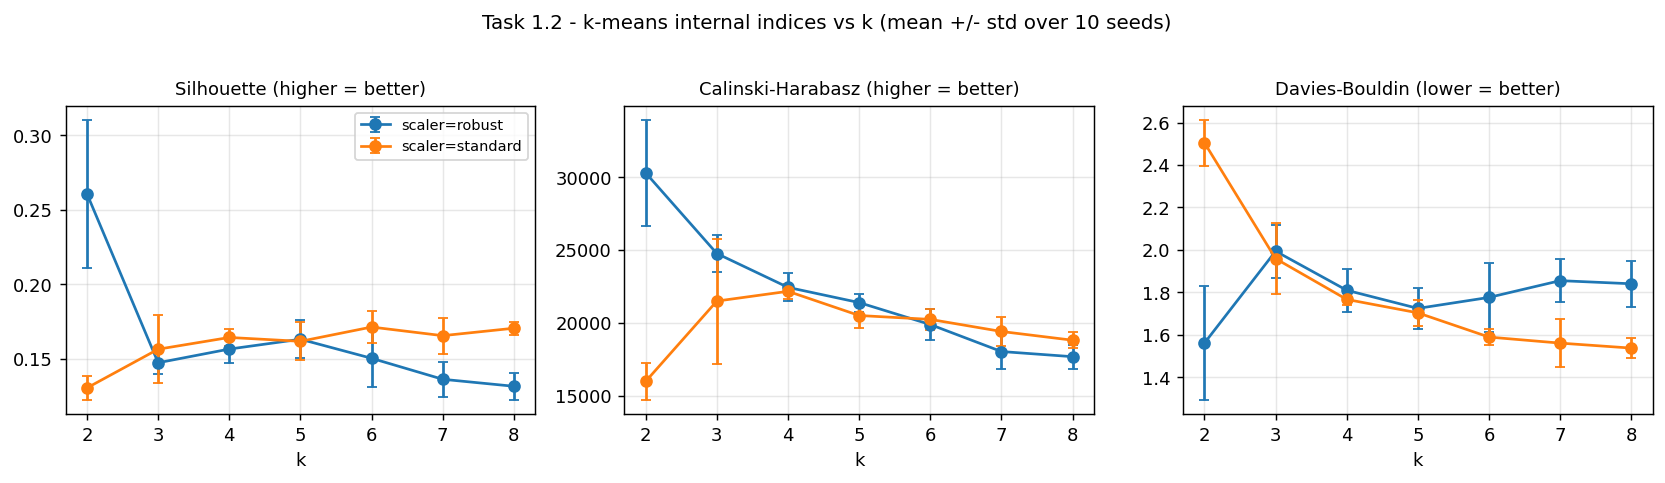
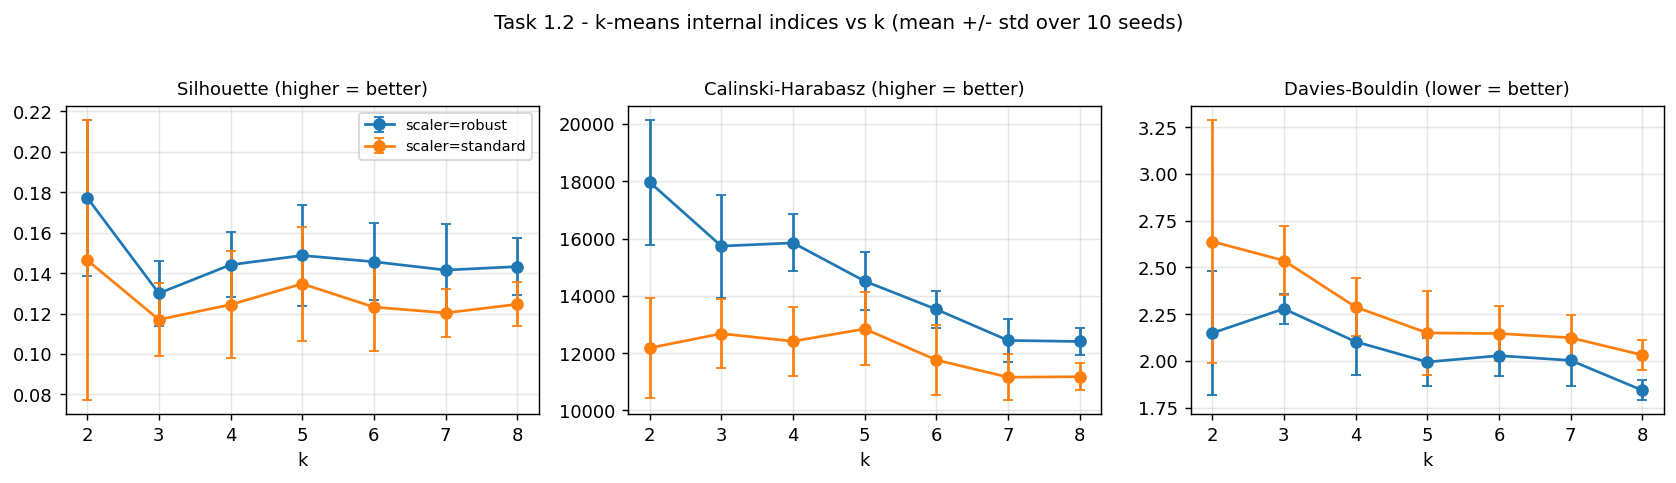
Add PCA(3) static and interactive visualiser to run_all pipeline

diff --git a/src/evaluation/visualize_components_3d.py b/src/evaluation/visualize_components_3d.py
@@ -820,6 +820,146 @@ def _html_document(
     )
 
 
+def _write_static_figure(
+    *,
+    coords: np.ndarray,
+    labels_sample: np.ndarray,
+    clusters: list[dict],
+    variance: list[float],
+    method_name: str,
+    scaler: str,
+    n_rows: int,
+    n_sample: int,
+    png_path: Path,
+) -> None:
+    """Render a browser-free static twin of the interactive 3D scene.
+
+    This is the figure committed to the repository and referenced by the report:
+    it reproduces the same PCA(3) cloud as the Three.js visualizer using only
+    matplotlib, so ``run_all`` regenerates it with no browser dependency.
+    """
+    import matplotlib
+
+    matplotlib.use("Agg")
+    import matplotlib.pyplot as plt
+    from matplotlib.lines import Line2D
+    from mpl_toolkits.mplot3d import Axes3D  # noqa: F401 (registers 3d projection)
+
+    bg = "#101113"
+    panel_bg = "#15171a"
+    text_c = "#f3f1ec"
+    muted_c = "#a9aaa8"
+    grid_c = (1.0, 1.0, 1.0, 0.06)
+
+    cluster_ids = [int(c["cluster"]) for c in clusters]
+    color_for = {int(c["cluster"]): c["color"] for c in clusters}
+    share_for = {int(c["cluster"]): float(c["share"]) for c in clusters}
+
+    v = [float(x) * 100.0 for x in variance]
+    lab = {"pc1": f"PC1  {v[0]:.1f}%", "pc2": f"PC2  {v[1]:.1f}%", "pc3": f"PC3  {v[2]:.1f}%"}
+
+    # A handful of outliers stretch the raw PCA axes and leave the dense cloud
+    # tiny. Zoom both panels to the central mass (the same trick the 2D view uses).
+    def _bounds(values: np.ndarray, lo: float = 1.5, hi: float = 98.5, pad: float = 0.06):
+        a, b = np.percentile(values, [lo, hi])
+        span = (b - a) or 1.0
+        return float(a - span * pad), float(b + span * pad)
+
+    xlim, ylim, zlim = (_bounds(coords[:, 0]), _bounds(coords[:, 1]), _bounds(coords[:, 2]))
+    in3d = (
+        (coords[:, 0] >= xlim[0]) & (coords[:, 0] <= xlim[1])
+        & (coords[:, 1] >= ylim[0]) & (coords[:, 1] <= ylim[1])
+        & (coords[:, 2] >= zlim[0]) & (coords[:, 2] <= zlim[1])
+    )
+    in2d = (
+        (coords[:, 0] >= xlim[0]) & (coords[:, 0] <= xlim[1])
+        & (coords[:, 1] >= ylim[0]) & (coords[:, 1] <= ylim[1])
+    )
+
+    fig = plt.figure(figsize=(13.0, 6.2), facecolor=bg)
+
+    # Isometric 3D panel: the "hero" view, matching the interactive scene.
+    ax = fig.add_subplot(1, 2, 1, projection="3d")
+    ax.set_facecolor(bg)
+    for cid in cluster_ids:
+        m = (labels_sample == cid) & in3d
+        if m.any():
+            ax.scatter(coords[m, 0], coords[m, 1], coords[m, 2], s=6,
+                       c=color_for[cid], alpha=0.55, edgecolors="none", depthshade=True)
+    for cid in cluster_ids:
+        m = labels_sample == cid
+        if m.any():
+            cx, cy, cz = coords[m].mean(axis=0)
+            ax.scatter([cx], [cy], [cz], s=110, c=color_for[cid],
+                       edgecolors="white", linewidths=1.1, marker="o", depthshade=False)
+    ax.set_xlim3d(xlim)
+    ax.set_ylim3d(ylim)
+    ax.set_zlim3d(zlim)
+    ax.view_init(elev=18, azim=-62)
+    ax.set_xlabel(lab["pc1"], color=text_c, fontsize=9, labelpad=4)
+    ax.set_ylabel(lab["pc2"], color=text_c, fontsize=9, labelpad=4)
+    ax.set_zlabel(lab["pc3"], color=text_c, fontsize=9, labelpad=4)
+    ax.set_title("Isometric projection", color=text_c, fontsize=11, pad=6)
+    ax.tick_params(colors=muted_c, labelsize=6)
+    for axis in (ax.xaxis, ax.yaxis, ax.zaxis):
+        try:
+            axis.set_pane_color((1, 1, 1, 0.015))
+            axis.pane.set_edgecolor((1, 1, 1, 0.08))
+            axis._axinfo["grid"]["color"] = grid_c
+            axis.line.set_color((1, 1, 1, 0.25))
+        except Exception:
+            pass
+
+    # PC1 x PC2 plane: the analytical view where the segment split reads cleanly.
+    ax2 = fig.add_subplot(1, 2, 2)
+    ax2.set_facecolor(panel_bg)
+    for cid in cluster_ids:
+        m = (labels_sample == cid) & in2d
+        if m.any():
+            ax2.scatter(coords[m, 0], coords[m, 1], s=7, c=color_for[cid],
+                        alpha=0.5, edgecolors="none")
+    for cid in cluster_ids:
+        m = labels_sample == cid
+        if m.any():
+            ax2.scatter([coords[m, 0].mean()], [coords[m, 1].mean()], s=120,
+                        c=color_for[cid], edgecolors="white", linewidths=1.1, marker="o")
+    ax2.set_xlim(xlim)
+    ax2.set_ylim(ylim)
+    ax2.set_xlabel(lab["pc1"], color=text_c, fontsize=9)
+    ax2.set_ylabel(lab["pc2"], color=text_c, fontsize=9)
+    ax2.set_title("PC1 x PC2 plane", color=text_c, fontsize=11, pad=6)
+    ax2.tick_params(colors=muted_c, labelsize=7)
+    for spine in ax2.spines.values():
+        spine.set_color((1, 1, 1, 0.18))
+
+    handles = [
+        Line2D([0], [0], marker="o", linestyle="none", markersize=7,
+               markerfacecolor=color_for[cid], markeredgecolor="none",
+               label=f"segment {cid}  ({share_for[cid] * 100:.1f}%)")
+        for cid in cluster_ids
+    ]
+    leg = ax2.legend(handles=handles, loc="upper right", fontsize=7.5, frameon=True,
+                     facecolor=panel_bg, edgecolor=(1, 1, 1, 0.15), framealpha=0.85,
+                     labelcolor=text_c, title="clusters", title_fontsize=8)
+    if leg is not None and leg.get_title() is not None:
+        leg.get_title().set_color(muted_c)
+
+    fig.suptitle(
+        f"Clustering space, diagnostic PCA projection  ({method_name} + {scaler} scaler, k={len(cluster_ids)})",
+        color=text_c, fontsize=13, y=0.97,
+    )
+    fig.text(
+        0.5, 0.035,
+        "PCA is a viewing aid only: clustering uses the full preprocessed feature space.  "
+        f"n={n_sample:,} points sampled from {n_rows:,} bookings.",
+        ha="center", color=muted_c, fontsize=8.5,
+    )
+    fig.subplots_adjust(left=0.02, right=0.98, top=0.88, bottom=0.14, wspace=0.10)
+    png_path.parent.mkdir(parents=True, exist_ok=True)
+    fig.savefig(png_path, dpi=150, facecolor=bg)
+    plt.close(fig)
+
+
 def run(
     *,
     fast: bool,
@@ -831,6 +971,7 @@ def run(
     html_path: Path,
     csv_path: Path,
     open_browser: bool,
+    png_path: Path = DEFAULT_PNG,
 ) -> tuple[Path, Path]:
     FIGURES_DIR.mkdir(parents=True, exist_ok=True)
     TABLES_DIR.mkdir(parents=True, exist_ok=True)
@@ -898,7 +1039,20 @@ def run(
     )
     html_path.write_text(html, encoding="utf-8")
 
+    _write_static_figure(
+        coords=coords,
+        labels_sample=labels_sample,
+        clusters=clusters,
+        variance=meta["variance"],
+        method_name=method_name,
+        scaler=scaler,
+        n_rows=int(len(x)),
+        n_sample=int(len(sample_idx)),
+        png_path=png_path,
+    )
+
     _progress(f"Saved HTML visualizer: {html_path}")
+    _progress(f"Saved static report figure: {png_path}")
     _progress(f"Saved sampled PCA coordinates: {csv_path}")
     if open_browser:
         webbrowser.open(html_path.resolve().as_uri())
@@ -910,12 +1064,13 @@ def main() -> None:
     mode = parser.add_mutually_exclusive_group()
     mode.add_argument("--fast", action="store_true", help="Use the configured fast subsample.")
     mode.add_argument("--full", action="store_true", help="Use all available rows.")
-    parser.add_argument("--scaler", choices=["standard", "robust"], default="robust")
+    parser.add_argument("--scaler", choices=["standard", "robust"], default="standard")
     parser.add_argument("--labeler", choices=["ikmeans", "kmeans", "none"], default="ikmeans")
     parser.add_argument("--k", type=int, default=8, help="k for k-means, or k_max for iKMeans.")
-    parser.add_argument("--sample-size", type=int, default=6000)
+    parser.add_argument("--sample-size", type=int, default=7000)
     parser.add_argument("--seed", type=int, default=FAST_SEED)
     parser.add_argument("--output", type=Path, default=DEFAULT_HTML)
+    parser.add_argument("--png-output", type=Path, default=DEFAULT_PNG)
     parser.add_argument("--csv-output", type=Path, default=DEFAULT_CSV)
     parser.add_argument("--open", action="store_true", help="Open the exported HTML in the browser.")
     args = parser.parse_args()
@@ -936,6 +1091,7 @@ def main() -> None:
         html_path=args.output,
         csv_path=args.csv_output,
         open_browser=args.open,
+        png_path=args.png_output,
     )
 
 

diff --git a/README.md b/README.md
@@ -40,11 +40,12 @@ bash run_all --fast
 bash run_all
 ```
 
-All figures and tables are auto-generated into `figures/` and `tables/`. `run_all` is a 16-step pipeline
+All figures and tables are auto-generated into `figures/` and `tables/`. `run_all` is a 17-step pipeline
 (validation → EDA → preprocessing → baseline k-means/iK-means → GMM → **bootstrap stability** → **GMM extended-k BIC
-trajectory** → profiling → scaler comparison → family comparison → main-population → PCA visualisation → E4 PCA study →
-**FAMD representation comparison** → **ADR-inclusion sensitivity** → E1 anomaly → E5 t-SNE → headline k=7 profile →
-**segment predictive utility** → **surrogate decision tree**). The bolded steps were added in methodological deepening passes.
+trajectory** → profiling → scaler comparison → family comparison → main-population → PCA visualisation → **PCA(3) static +
+interactive 3D visualiser** → E4 PCA study → **FAMD representation comparison** → **ADR-inclusion sensitivity** → E1 anomaly
+→ E5 t-SNE → headline k=7 profile → **segment predictive utility** → **surrogate decision tree**). The bolded steps were
+added in methodological deepening passes.
 
 ---
 